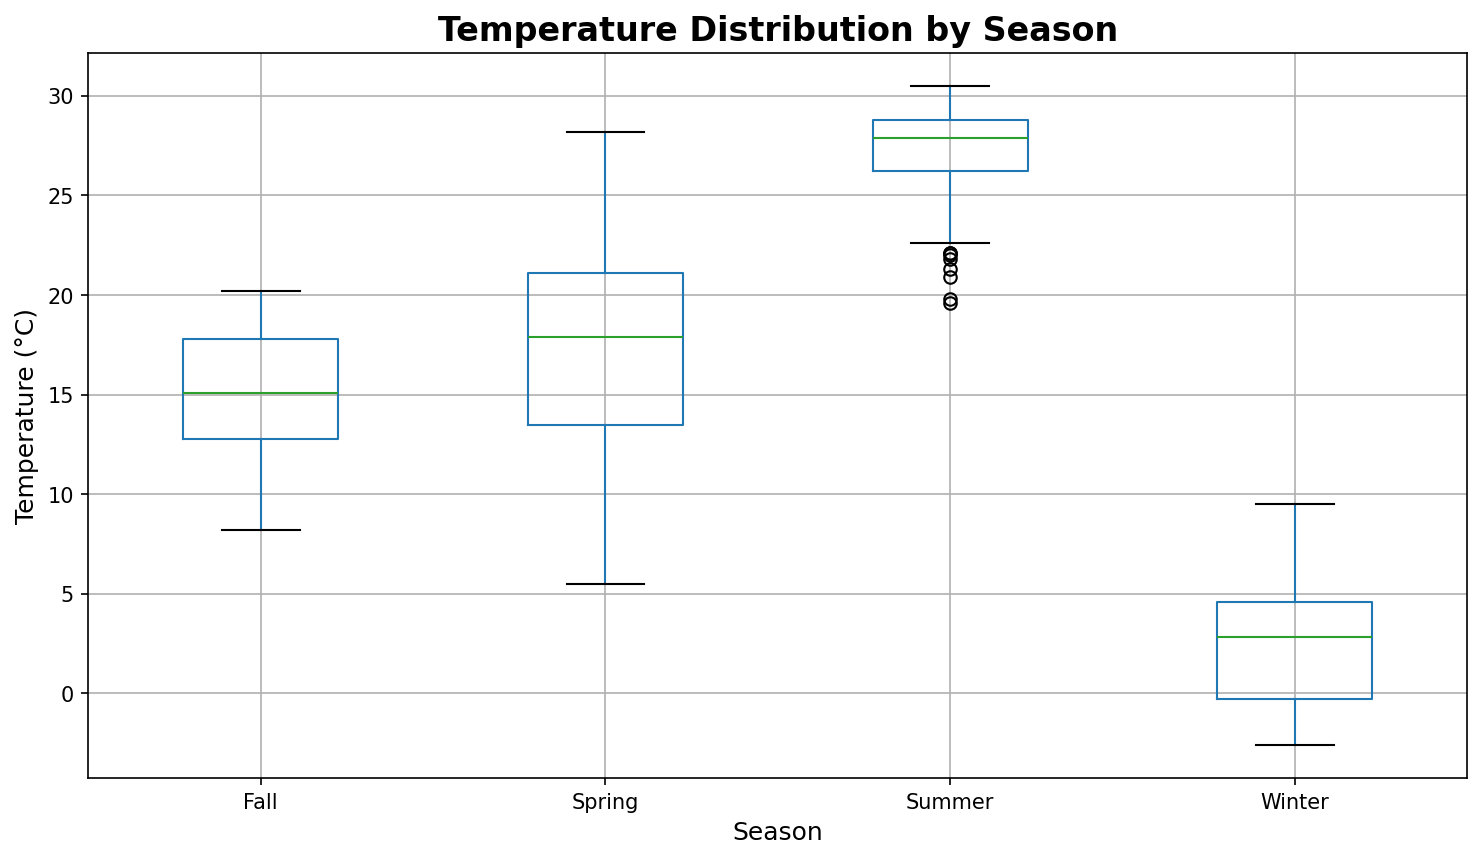
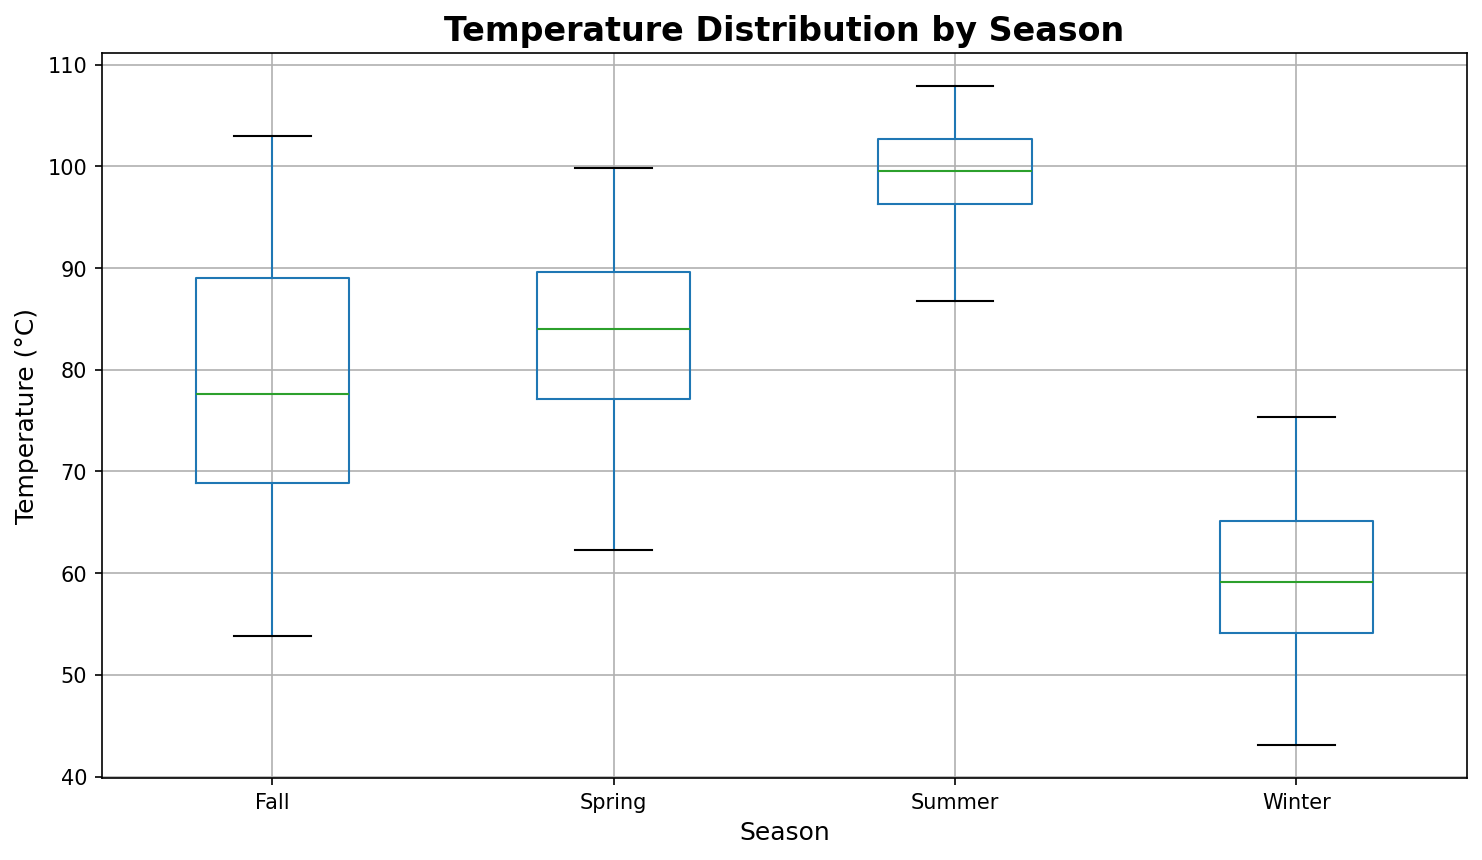
Add temperature conversion script and update weather data CSV

diff --git a/Pathways/W9D5/Breakouts/convert_temp.py b/Pathways/W9D5/Breakouts/convert_temp.py
@@ -1,0 +1,19 @@
+import pandas as pd
+
+# Load the weather data
+df = pd.read_csv('weather_data.csv')
+
+# Convert temperature from Fahrenheit to Celsius
+# Formula: C = (F - 32) * 5/9
+df['temperature'] = (df['temperature'] - 32) * 5/9
+
+# Round to 1 decimal place for cleaner data
+df['temperature'] = df['temperature'].round(1)
+
+# Save the updated data back to the CSV file
+df.to_csv('weather_data.csv', index=False)
+
+print("Temperature conversion complete!")
+print("First few rows with Celsius temperatures:")
+print(df.head())
+print(f"\nTemperature range: {df['temperature'].min():.1f}°C to {df['temperature'].max():.1f}°C")

diff --git a/Pathways/W9D5/Breakouts/breakout1.py b/Pathways/W9D5/Breakouts/breakout1.py
@@ -30,7 +30,7 @@ plt.rcParams['figure.figsize'] = (10, 6)  # Set default figure size
 
 # Load the CSV file using pandas
 # pd.read_csv() reads a CSV file and creates a DataFrame (like a spreadsheet in Python)
-weather_data = pd.read_csv(r'c:\Users\Petro\repos\python\TPS25\Pathways\W5D5\Breakouts\weather_data.csv')
+weather_data = pd.read_csv('weather_data.csv')
 
 # Print the first 5 rows to understand the data structure
 # .head() shows the first few rows of our dataset
